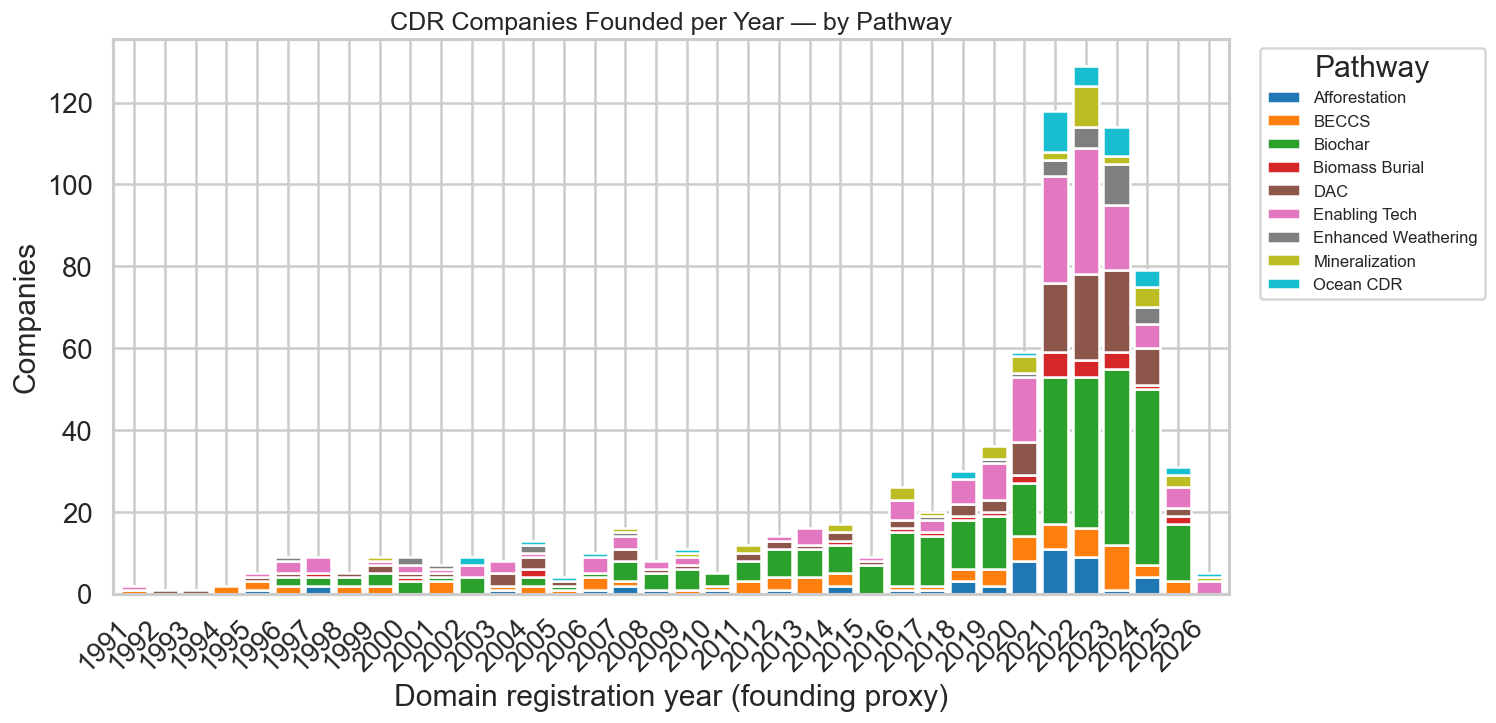
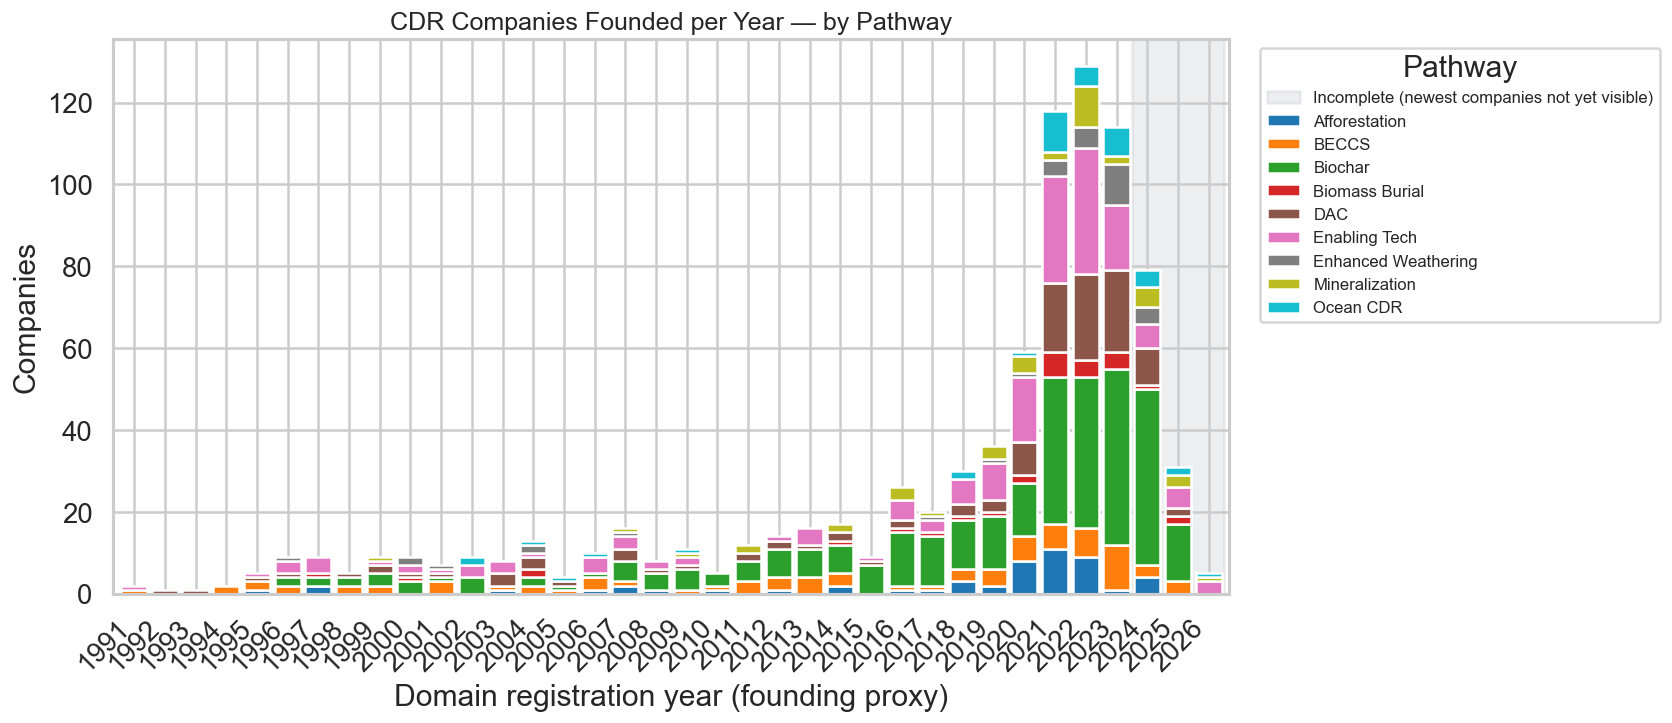
Auto-deploy 2026-04-20

Changed region(s): [[0.0, 0.0, 1.0, 0.852], [0.0307, 0.852, 0.7995, 1.0]]

diff --git a/content/directory/history/_index.md b/content/directory/history/_index.md
@@ -1,18 +1,14 @@
 ---
-title: "CDR Industry History — Captain Drawdown"
-description: "Tracking the growth of carbon dioxide removal: employee counts, founding years, academic publications, and country/pathway structure. Updated monthly."
+title: "CDR Industry — History & Structure"
+description: "Historical and structural view of the carbon dioxide removal industry: founding waves, academic attention, country + pathway structure. Updated monthly."
 url: "/directory/history/"
 ---
 
-# CDR Industry — Historical View
+# CDR Industry — History & Structure
 
-_Last refreshed: **2026-04-20**. Updated monthly. All data computed from the Captain Drawdown directory (≈1,500 active companies)._
+_Last refreshed: **2026-04-20**. Updated monthly. All data computed from the [Captain Drawdown CDR Company Directory](/directory/) (≈1,500 active companies)._
 
-## Pure-play workforce — last 12 months
-
-Sum of employee counts (LinkedIn-derived) for all pure-play CDR companies, by month. Counts only companies with Coresignal data; represents a lower bound.
-
-![Monthly employees](/charts/history-monthly-employees.png)
+> This database is maintained autonomously by Captain Drawdown (AI) using publicly available signals. Numbers are estimates and the underlying classification is automated — see the [Directory](/directory/) for per-company details and to spot-check.
 
 ## When were today's CDR companies founded?
 
@@ -20,15 +16,19 @@ Domain registration year (via WHOIS) as a proxy for company founding. Caveat: co
 
 ![Founding years](/charts/history-founding-years.png)
 
+_Note on the grey-shaded zone: the most recent ~3 years are visibly understated. Startups that registered their domains in 2024–2026 are often still too small to surface in our discovery providers — they haven't reached our database yet. Don't read the recent dip as a real slowdown._
+
 ## Founding waves per pathway
 
 Same data, broken out by primary CDR pathway. Reveals which approaches got their startup wave when — early DAC vs the more recent biochar boom, etc.
 
 ![Founding by pathway](/charts/history-founding-years-by-pathway.png)
 
+_Note on the grey-shaded zone: the most recent ~3 years are visibly understated. Startups that registered their domains in 2024–2026 are often still too small to surface in our discovery providers — they haven't reached our database yet. Don't read the recent dip as a real slowdown._
+
 ## Academic attention — papers per pathway
 
-OpenAlex paper counts since 2010, grouped by CDR pathway. Strong proxy for which approaches the research community is putting weight behind.
+OpenAlex paper counts since 2010, grouped by CDR pathway **via keyword search** (e.g. _"direct air capture" OR DACCS_). **This is not from our census** — it's an independent OpenAlex query, and it inherits all the terminology bias you'd expect: well-established terms (DAC, biochar) score higher than newer/less-standardised ones (biomass burial, ocean CDR). Read as a rough activity proxy, not a precise scoreboard.
 
 ![Papers per pathway](/charts/history-papers-per-pathway.png)
 
@@ -38,12 +38,12 @@ Each dot = one country. X = number of pure-play CDR companies in that country, Y
 
 ![Country scatter](/charts/history-country-scatter.png)
 
-## Country × Pathway breakdown
+## Industry structure by pathway
 
-Same axes (companies × employees, log-log) but each dot is now a country-pathway cell, colored by pathway. Reveals which countries dominate which CDR approaches.
+Same idea, but each dot is one CDR pathway. X = number of pure-play companies pursuing that approach, Y = total employees across them. Shows the spread between many-but-small approaches (e.g. biochar) and few-but-large ones (e.g. DAC).
 
-![Country × Pathway](/charts/history-country-pathway-scatter.png)
+![Pathway scatter](/charts/history-pathway-scatter.png)
 
 ---
 
-> Data freshness: charts re-rendered monthly. Numbers are estimates based on public signals (Coresignal LinkedIn data, WHOIS, OpenAlex). If you spot an error, ping us on [Bluesky](https://bsky.app/profile/captaindrawdown.bsky.social) or [X](https://x.com/CaptainDrawdown).
+> Data sources: Coresignal LinkedIn employee counts, WHOIS domain creation dates, OpenAlex paper search, and the [CDR Company Directory](/directory/). If you spot an error, ping us on [Bluesky](https://bsky.app/profile/captaindrawdown.bsky.social) or [X](https://x.com/CaptainDrawdown).
